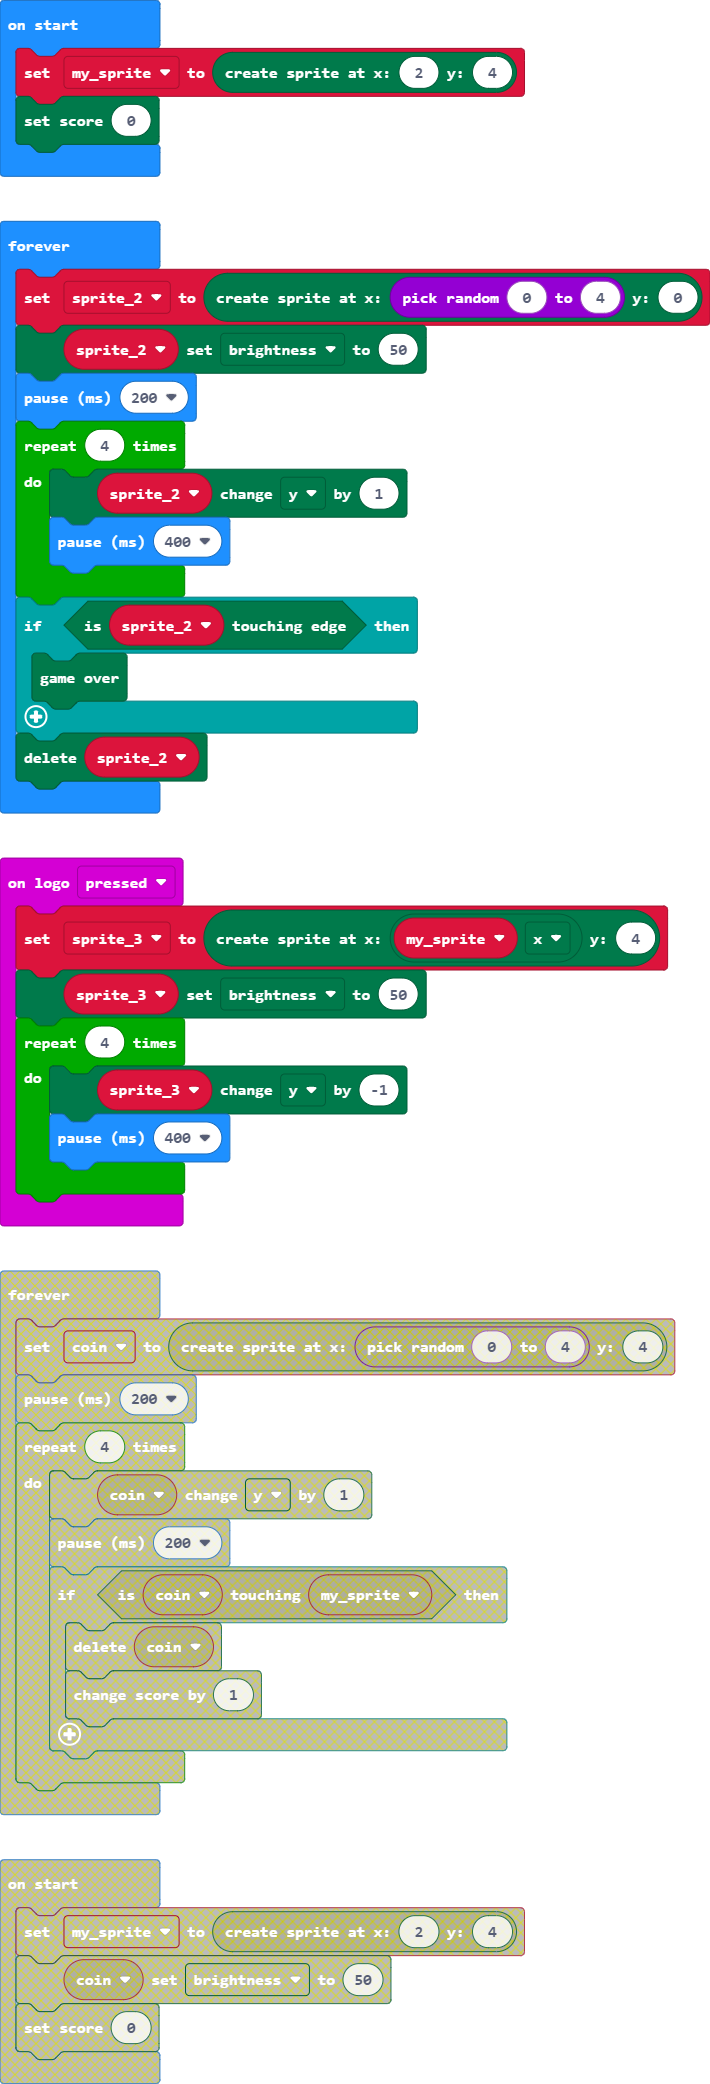
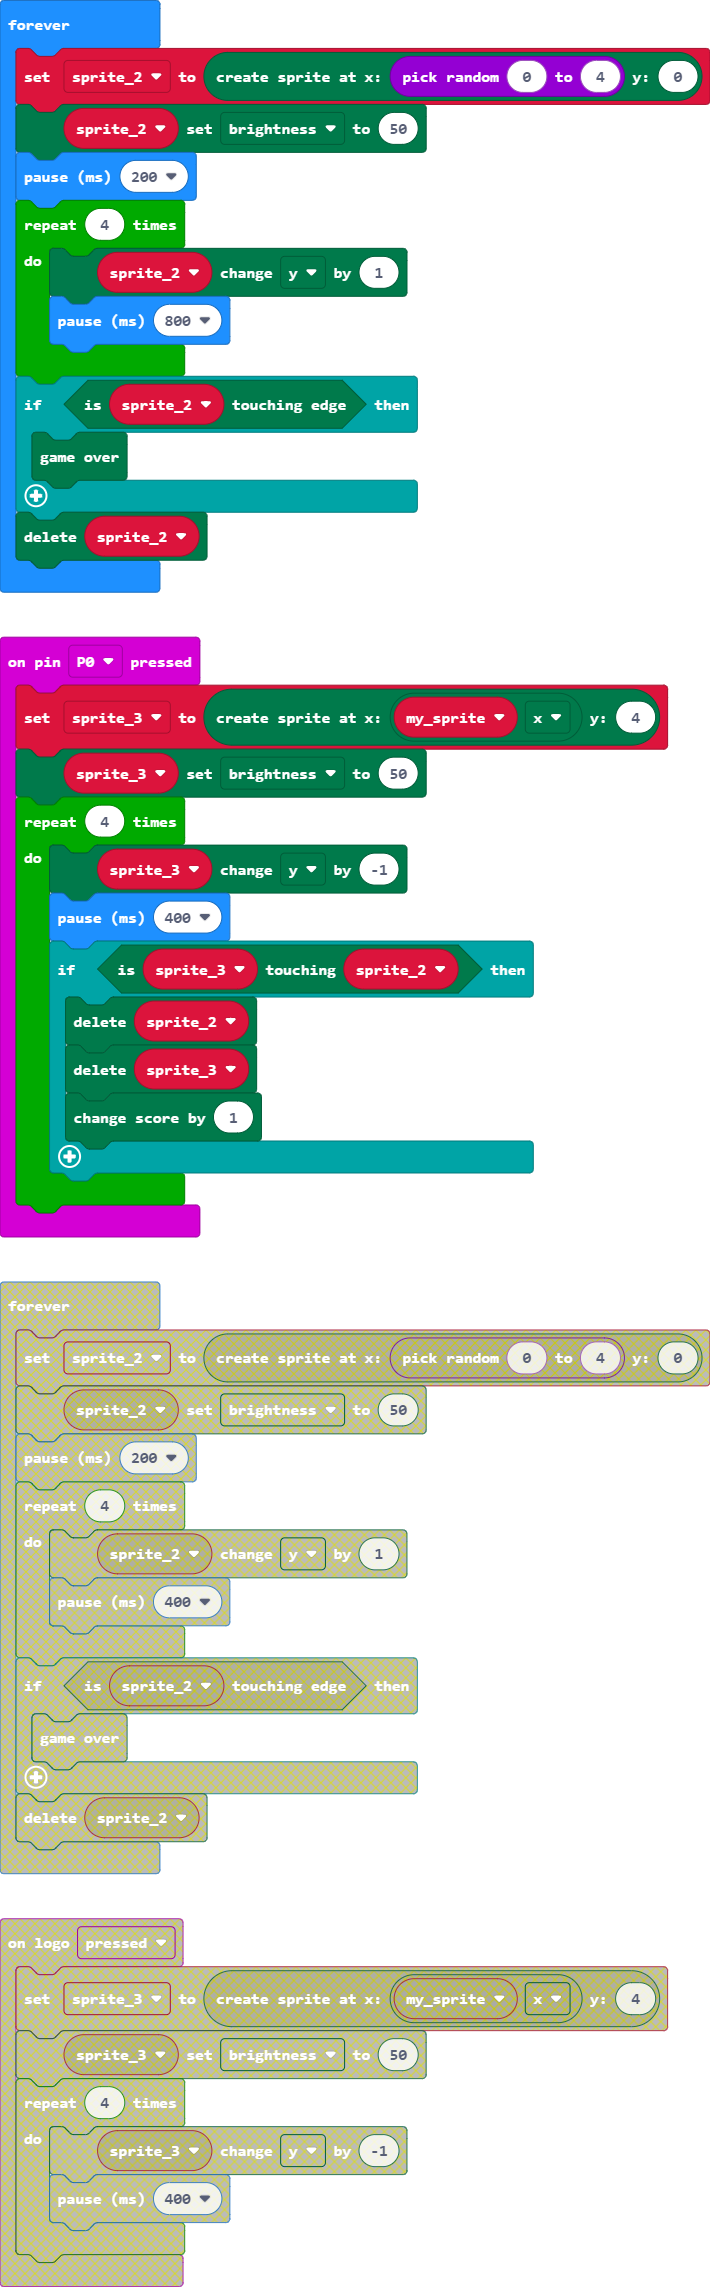
Update pxt.json, main.blocks, main.ts

diff --git a/main.ts b/main.ts
@@ -1,16 +1,4 @@
-let sprite_2 : game.LedSprite = null
-let sprite_3 : game.LedSprite = null
-let my_sprite : game.LedSprite = null
-my_sprite = game.createSprite(2, 4)
-game.setScore(0)
-input.onButtonPressed(Button.A, function on_button_pressed_a() {
-    my_sprite.change(LedSpriteProperty.X, -1)
-})
-input.onButtonPressed(Button.B, function on_button_pressed_b() {
-    my_sprite.change(LedSpriteProperty.X, 1)
-})
-input.onLogoEvent(TouchButtonEvent.Pressed, function on_logo_pressed() {
-    
+input.onPinPressed(TouchPin.P0, function () {
     sprite_3 = game.createSprite(my_sprite.get(LedSpriteProperty.X), 4)
     sprite_3.set(LedSpriteProperty.Brightness, 50)
     for (let index = 0; index < 4; index++) {
@@ -21,21 +9,29 @@ input.onLogoEvent(TouchButtonEvent.Pressed, function on_logo_pressed() {
             sprite_3.delete()
             game.addScore(1)
         }
-        
     }
 })
-basic.forever(function on_forever() {
-    
+input.onButtonPressed(Button.A, function () {
+    my_sprite.change(LedSpriteProperty.X, -1)
+})
+input.onButtonPressed(Button.B, function () {
+    my_sprite.change(LedSpriteProperty.X, 1)
+})
+let sprite_2: game.LedSprite = null
+let sprite_3: game.LedSprite = null
+let my_sprite: game.LedSprite = null
+my_sprite = game.createSprite(2, 4)
+game.setScore(0)
+basic.forever(function () {
     sprite_2 = game.createSprite(randint(0, 4), 0)
     sprite_2.set(LedSpriteProperty.Brightness, 50)
     basic.pause(200)
-    for (let index2 = 0; index2 < 4; index2++) {
+    for (let index = 0; index < 4; index++) {
         sprite_2.change(LedSpriteProperty.Y, 1)
         basic.pause(800)
     }
     if (sprite_2.isTouchingEdge()) {
         game.gameOver()
     }
-    
     sprite_2.delete()
 })
